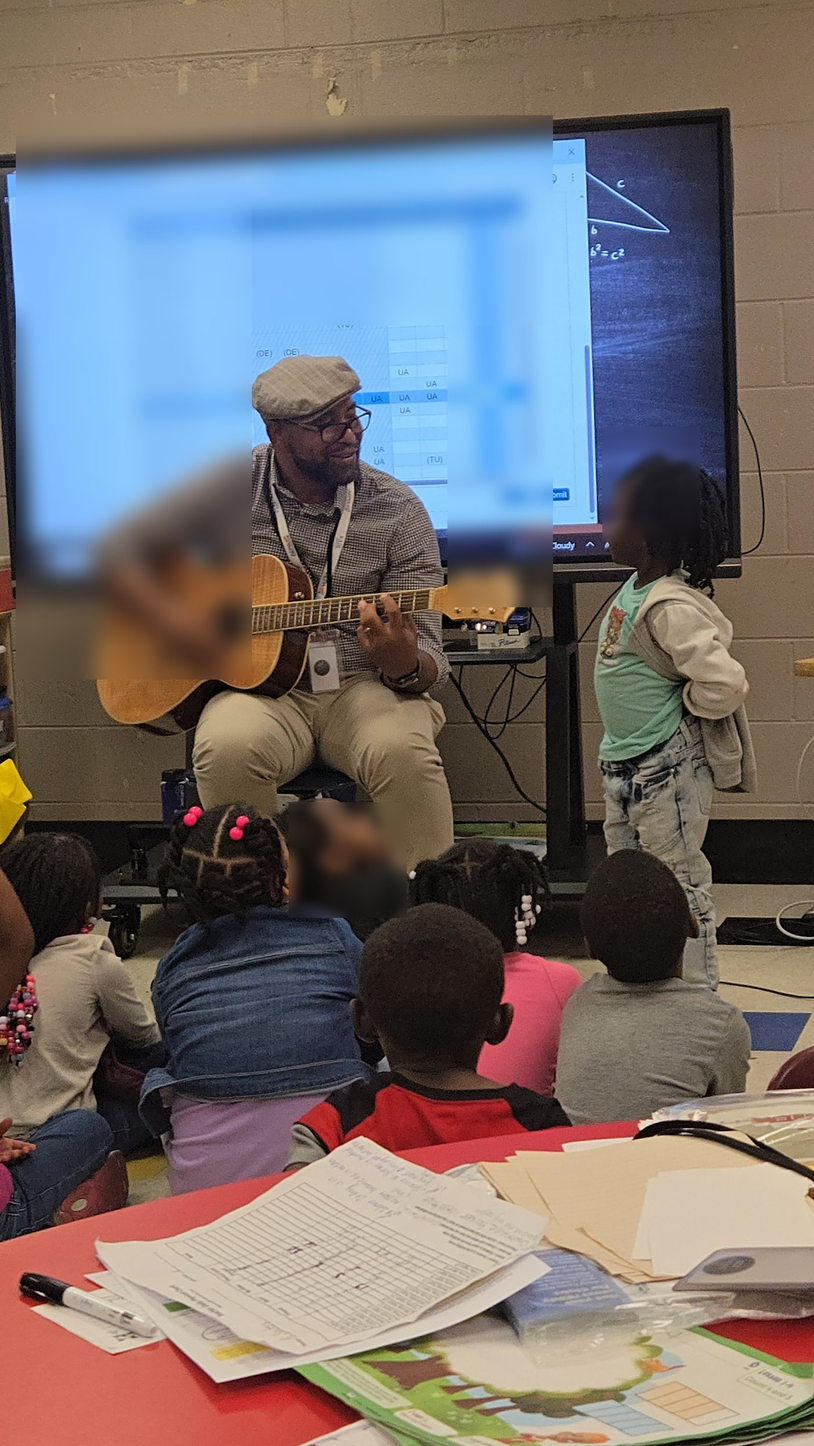
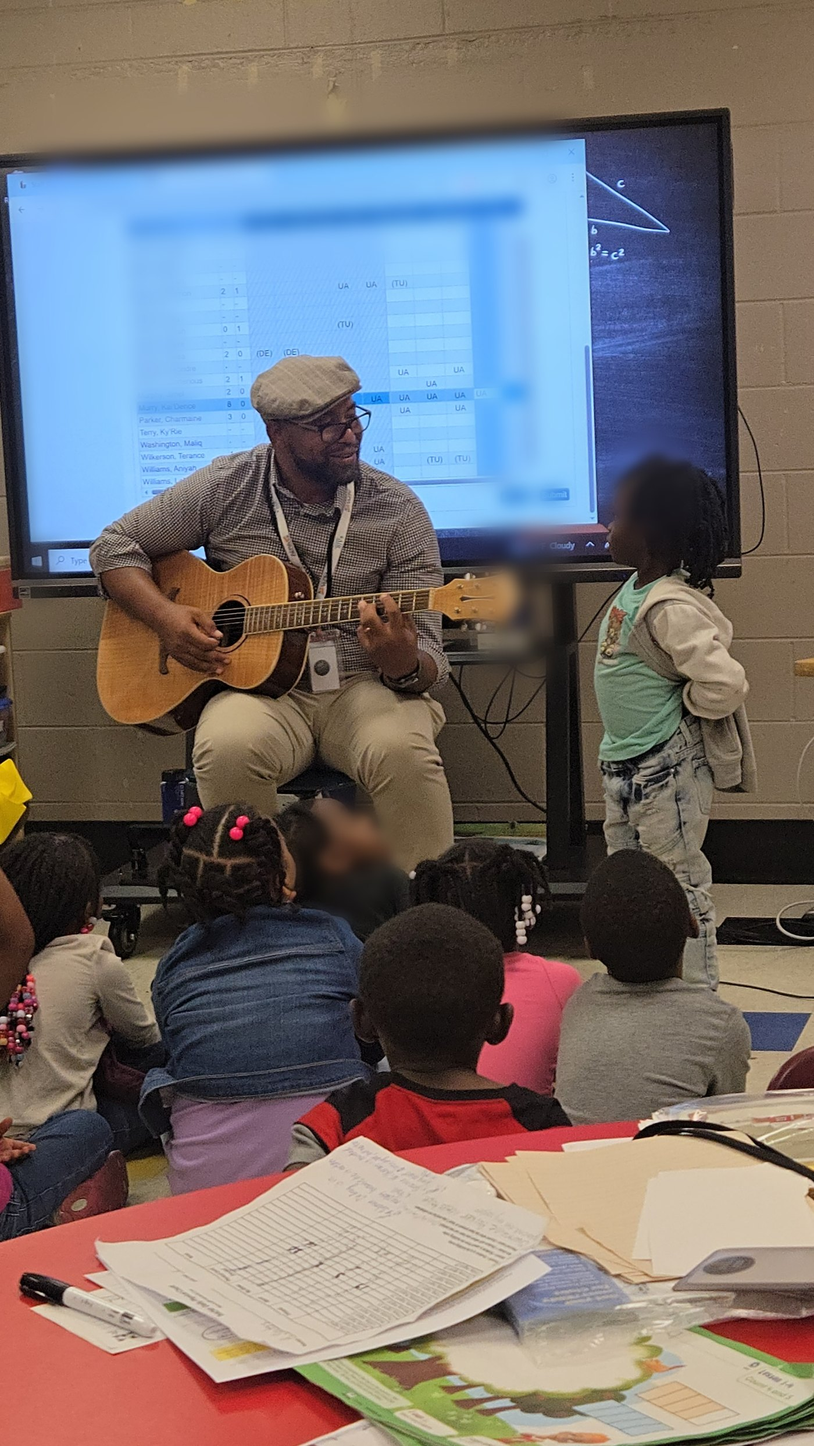
ECHO (Evidence, Culture, Healing, Outcomes) added to What I Build; AI-literacy-is-a-literacy card in AI Practice; guitar blur redone (feathered frost, Eli + guitar untouched, names verified unreadable); crisp 600px contact circle

diff --git a/index.html b/index.html
@@ -472,7 +472,7 @@
       <div class="stat-row">
         <div class="stat"><div class="n">5,400+</div><div class="l">documented AI research conversations forming my dissertation's field record</div></div>
         <div class="stat"><div class="n">650+</div><div class="l">coded evidence entries in the research database the method produced</div></div>
-        <div class="stat"><div class="n">4</div><div class="l">AI-driven platforms built from scratch — research, schools, families, and national standards work</div></div>
+        <div class="stat"><div class="n">5</div><div class="l">AI-driven platforms built from scratch — research, schools, tutoring, families, and national standards work</div></div>
       </div>
       <div class="cards" style="margin-top:34px;">
         <div class="card">
@@ -496,6 +496,16 @@
           stays the author of their own story. I help institutions adopt AI with those lines drawn
           in code, not just in policy.</p>
         </div>
+        <div class="card">
+          <span class="tag">Literacy</span>
+          <h3>AI literacy is a literacy</h3>
+          <p>I treat AI fluency the way literacy scholars treat reading and writing — a skill set
+          every educator and student deserves access to. I practice it daily across the full
+          toolchain (Claude, Cursor, Codex, Gemini), I built a custom AI module for my preservice
+          teachers, I've taught prompt-engineering workshops for educator networks, and I hosted
+          a 12-episode podcast season on AI in education. I don't just use the tools — I teach
+          people to hold them with authority.</p>
+        </div>
       </div>
     </div>
   </section>
@@ -517,6 +527,16 @@
           three-tap logging, restorative documentation that auto-generates district paperwork, and
           one-tap AI reports. Built by 4 Black Centuries LLC, piloting in Birmingham for 2026–27.
           <em>Catch them being good.</em></p>
+        </div>
+        <div class="card">
+          <span class="tag">In development</span>
+          <h3>ECHO</h3>
+          <p><em>Evidence, Culture, Healing, Outcomes.</em> An adult-facing tutoring intelligence
+          platform for in-person reading and math tutoring: whole-child intake that listens to
+          the teacher, the family, and the student before prescribing anything; standards-aligned
+          planning; progress monitoring; family communication. The motto is the method —
+          <em>ECHO learns the child before it teaches the child</em> — and the Epigenetic
+          Consciousness framework is its soul. Built with Cursor and agentic AI.</p>
         </div>
         <div class="card">
           <span class="tag">In development</span>
@@ -658,7 +678,7 @@
     <div class="wrap">
       <p class="kicker">Get in touch</p>
       <h2>Bring the question to your people</h2>
-      <img src="photos/beach.jpg" alt="Eli Davis smiling in front of palm trees and the ocean" loading="lazy"
+      <img src="photos/contact-circle.jpg" alt="Eli Davis smiling in front of palm trees and the ocean" loading="lazy"
            style="width:170px;height:170px;object-fit:cover;border-radius:50%;display:block;margin:0 auto 26px;box-shadow:0 14px 36px rgba(33,27,20,.2);">
       <p>
         If your school, university, or organization is working out what AI, behavior, or healing
